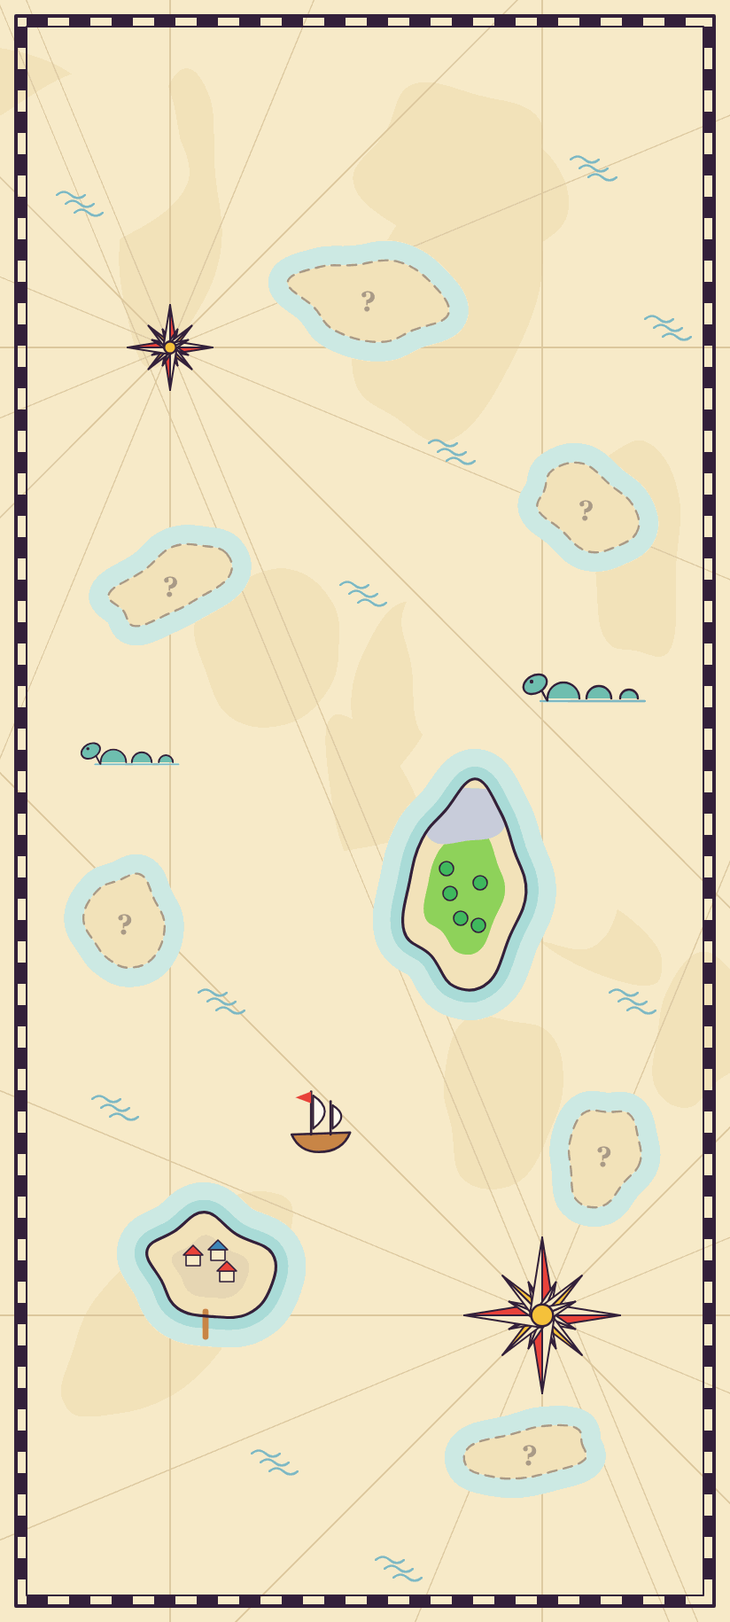
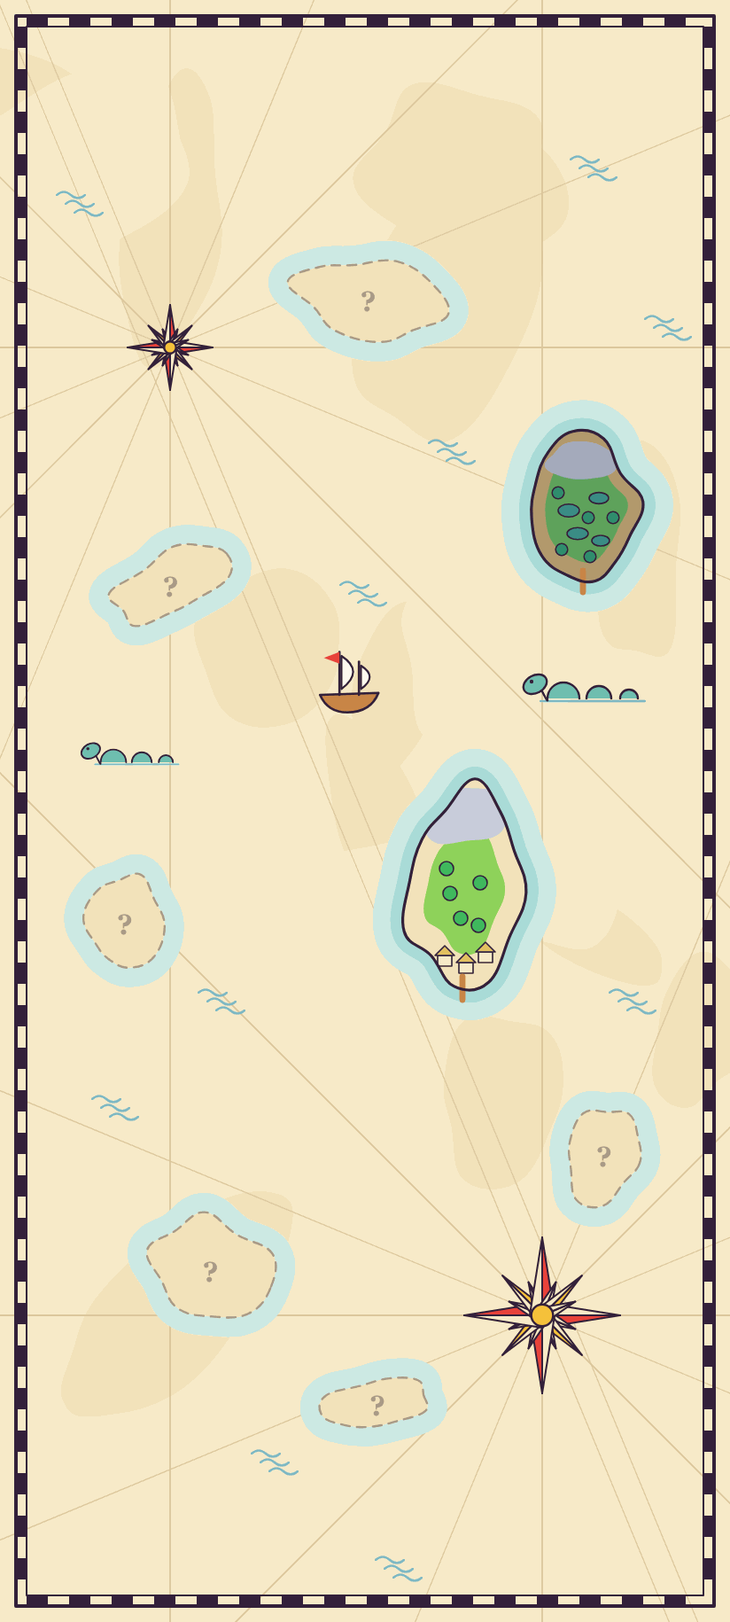
Art Director: Crab Cay's zones by their monsters, the piglet's gallop for its charge, Mire Cay on the chart (Leonard, AD)
On Victor, GD's message that the six monsters and Mire Cay are in the game
(his commit 0024efc):

- out/crab-cay/place.json: zones are named sand-crab, wharf-rat,
  bristle-piglet, palm-monkey and coconut-crab; the boxes are unchanged
  and the gull is gone.
- out/bristle-piglet: the charge gallop redrawn with a longer stride at
  42 ms a frame: drawn for 320 units a second, where his rule runs it at
  330.
- out/chart: Crab Cay with its town, Mire Cay painted where the first
  unknown island was, a way between them, pin/swamp; the old harbour is
  an unknown island. chart-places.json names its places crab-cay and
  mire-cay and keeps island-1 as the old name.

diff --git a/Art Director/tools/chart.js b/Art Director/tools/chart.js
@@ -12,8 +12,12 @@ const smooth = (pts, k = 0.6) => g => { const n = pts.length; g.beginPath(); g.m
 const blobPts = (x, y, rx, ry, n, k, r, rot = 0) => Array.from({ length: n }, (_, i) => { const t = i / n * Math.PI * 2, w = 1 + (r() - 0.5) * k, px = Math.cos(t) * rx * w, py = Math.sin(t) * ry * w; return [x + px * Math.cos(rot) - py * Math.sin(rot), y + px * Math.sin(rot) + py * Math.cos(rot)]; });
 const stroke = (g, path, col, lw, dash) => { path(g); g.strokeStyle = col; g.lineWidth = lw; g.lineJoin = 'round'; g.lineCap = 'round'; g.setLineDash(dash || []); g.stroke(); g.setLineDash([]); };
 const fill = (g, path, col) => { path(g); g.fillStyle = col; g.fill(); };
-const PLACES = { harbour: { x: 118, y: 716, name: 'the harbour' }, 'island-1': { x: 262, y: 500, name: 'the first island' } };
-const UNKNOWN = [[330, 286, 30, 20, 0.4], [96, 330, 34, 18, -0.5], [206, 168, 40, 22, 0.2], [342, 650, 22, 28, 0.3], [70, 520, 20, 26, 0.1], [300, 820, 34, 16, -0.2]];
+// Two places since 2026-11-20: Crab Cay with its town (the old harbour is no place any more: its island is one of the unknown
+// ones now), and Mire Cay, the swamp, painted where the first unknown island was. `foot` is how far below its point a place's
+// painting ends, so the game can write its name under it.
+const PLACES = { 'crab-cay': { x: 262, y: 500, name: 'Crab Cay', pin: 'pin/island', foot: 66 }, 'mire-cay': { x: 330, y: 286, name: 'Mire Cay', pin: 'pin/swamp', foot: 52 } };
+const OLD = [330, 286, 30, 20, 0.4], HARBOUR = [118, 716, 34, 28, 0.3];
+const UNKNOWN = [[96, 330, 34, 18, -0.5], [206, 168, 40, 22, 0.2], [342, 650, 22, 28, 0.3], [70, 520, 20, 26, 0.1], [214, 792, 30, 15, -0.2], HARBOUR];      // the fifth stood under the Sail button: moved up and left
 
 function rose(g, x, y, r) {
   g.save(); g.translate(x, y);
@@ -36,19 +40,28 @@ function chart() {
   for (const [cx, cy] of [[306, 742], [96, 196]]) for (let i = 0; i < 16; i++) { const a = i * Math.PI / 8; stroke(g, gg => { gg.beginPath(); gg.moveTo(cx, cy); gg.lineTo(cx + Math.cos(a) * 1100, cy + Math.sin(a) * 1100); }, LINE, i % 2 ? 0.6 : 0.9); }
   // shallows round every island, then the islands
   const isles = [];
-  isles.push({ id: 'harbour', pts: blobPts(118, 716, 34, 28, 10, 0.3, r, 0.3) }); isles.push({ id: 'island-1', pts: blobPts(262, 500, 34, 54, 12, 0.28, r, 0.1) });
-  for (const [x, y, rx, ry, rot] of UNKNOWN) isles.push({ pts: blobPts(x, y, rx, ry, 10, 0.4, r, rot) });
+  // drawn in the order they always were, so every island keeps the shape it had: the old harbour's island first (unknown now), Crab Cay, then the rest
+  isles.push({ pts: blobPts(118, 716, 34, 28, 10, 0.3, r, 0.3) }); isles.push({ id: 'crab-cay', pts: blobPts(262, 500, 34, 54, 12, 0.28, r, 0.1) });
+  blobPts(...OLD.slice(0, 4), 10, 0.4, r, OLD[4]); isles.push({ id: 'mire-cay', pts: blobPts(330, 288, 30, 40, 12, 0.26, P.rng(77), -0.15) });
+  for (const [x, y, rx, ry, rot] of UNKNOWN.slice(0, 5)) isles.push({ pts: blobPts(x, y, rx, ry, 10, 0.4, r, rot) });
   for (const I of isles) { stroke(g, smooth(I.pts), SEA, I.id ? 34 : 22); fill(g, smooth(I.pts), SEA); }
   for (const I of isles.filter(I => I.id)) stroke(g, smooth(I.pts), SEA2, 14);
   for (const I of isles) {
     if (!I.id) { fill(g, smooth(I.pts), '#f3e3bb'); stroke(g, smooth(I.pts), '#a99a86', 1.2, [5, 4]); const cx = I.pts.reduce((n, p) => n + p[0], 0) / I.pts.length, cy = I.pts.reduce((n, p) => n + p[1], 0) / I.pts.length; P.label(g, '?', cx, cy + 1, 16, '#a99a86', { align: 'center', font: 'Georgia' }); continue; }
-    fill(g, smooth(I.pts), SAND); const c = PLACES[I.id], inner = k => smooth(I.pts.map(([x, y]) => [c.x + (x - c.x) * k, c.y + (y - c.y) * k]));
-    if (I.id === 'island-1') { fill(g, inner(0.66), GRASS); g.save(); smooth(I.pts)(g); g.clip(); fill(g, smooth(blobPts(c.x - 2, c.y - 40, 26, 17, 9, 0.3, r)), ROCK); g.restore(); for (const [dx, dy] of [[-8, 4], [9, -2], [-2, 18], [8, 22], [-10, -10]]) { fill(g, gg => { gg.beginPath(); gg.arc(c.x + dx, c.y + dy, 4, 0, 7); }, '#3fb95e'); stroke(g, gg => { gg.beginPath(); gg.arc(c.x + dx, c.y + dy, 4, 0, 7); }, INK, 0.8); } }
-    else { fill(g, inner(0.6), '#e3d6bd'); for (const [dx, dy, col] of [[-9, -6, RED], [5, -9, '#3d86b8'], [10, 3, RED]]) { g.fillStyle = '#f7ead0'; g.fillRect(c.x + dx - 4, c.y + dy - 2, 8, 6); g.strokeStyle = INK; g.lineWidth = 0.8; g.strokeRect(c.x + dx - 4, c.y + dy - 2, 8, 6); fill(g, gg => { gg.beginPath(); gg.moveTo(c.x + dx - 5.5, c.y + dy - 2); gg.lineTo(c.x + dx, c.y + dy - 7.5); gg.lineTo(c.x + dx + 5.5, c.y + dy - 2); gg.closePath(); }, col); stroke(g, gg => { gg.beginPath(); gg.moveTo(c.x + dx - 5.5, c.y + dy - 2); gg.lineTo(c.x + dx, c.y + dy - 7.5); gg.lineTo(c.x + dx + 5.5, c.y + dy - 2); gg.closePath(); }, INK, 0.8); } stroke(g, gg => { gg.beginPath(); gg.moveTo(c.x - 2, c.y + 24); gg.lineTo(c.x - 2, c.y + 38); }, '#c98646', 3.4); }
+    fill(g, smooth(I.pts), I.id === 'mire-cay' ? '#b39a6c' : SAND); const c = PLACES[I.id], inner = k => smooth(I.pts.map(([x, y]) => [c.x + (x - c.x) * k, c.y + (y - c.y) * k]));
+    const dot = (dx, dy, rad, col, lw = 0.8) => { fill(g, gg => { gg.beginPath(); gg.arc(c.x + dx, c.y + dy, rad, 0, 7); }, col); stroke(g, gg => { gg.beginPath(); gg.arc(c.x + dx, c.y + dy, rad, 0, 7); }, INK, lw); };
+    const hut = (dx, dy, col) => { g.fillStyle = '#f7ead0'; g.fillRect(c.x + dx - 4, c.y + dy - 2, 8, 6); g.strokeStyle = INK; g.lineWidth = 0.8; g.strokeRect(c.x + dx - 4, c.y + dy - 2, 8, 6); const roof = gg => { gg.beginPath(); gg.moveTo(c.x + dx - 5.5, c.y + dy - 2); gg.lineTo(c.x + dx, c.y + dy - 7.5); gg.lineTo(c.x + dx + 5.5, c.y + dy - 2); gg.closePath(); }; fill(g, roof, col); stroke(g, roof, INK, 0.8); };
+    if (I.id === 'mire-cay') {      // the swamp: mud, moss, grey stones in the north, pools, a few mangroves, a jetty in the south
+      fill(g, inner(0.74), '#5fa35c'); g.save(); smooth(I.pts)(g); g.clip(); fill(g, smooth(blobPts(c.x - 1, c.y - 27, 20, 11, 9, 0.3, P.rng(5))), '#a4abbc'); g.restore();
+      for (const [dx, dy, rx, ry] of [[-9, 2, 6, 3.6], [8, -5, 5.5, 3.2], [-4, 15, 6, 3.4], [9, 19, 5, 3]]) { const pool = gg => { gg.beginPath(); gg.ellipse(c.x + dx, c.y + dy, rx, ry, 0, 0, 7); }; fill(g, pool, '#3a8d86'); stroke(g, pool, INK, 0.8); }
+      for (const [dx, dy] of [[-15, -8], [2, 6], [16, 6], [-13, 24], [3, 28]]) dot(dx, dy, 3.4, '#2f8f6e');
+      stroke(g, gg => { gg.beginPath(); gg.moveTo(c.x - 1, c.y + 36); gg.lineTo(c.x - 1, c.y + 48); }, '#c98646', 3.4); }
+    else if (I.id === 'crab-cay') { fill(g, inner(0.66), GRASS); g.save(); smooth(I.pts)(g); g.clip(); fill(g, smooth(blobPts(c.x - 2, c.y - 40, 26, 17, 9, 0.3, r)), ROCK); g.restore(); for (const [dx, dy] of [[-8, 4], [9, -2], [-2, 18], [8, 22], [-10, -10]]) dot(dx, dy, 4, '#3fb95e');
+      hut(-11, 41, '#e2c060'); hut(1, 45, '#e2c060'); hut(12, 39, '#e2c060'); stroke(g, gg => { gg.beginPath(); gg.moveTo(c.x - 1, c.y + 51); gg.lineTo(c.x - 1, c.y + 64); }, '#c98646', 3.4); }      // the town on stilts at its south end, and its dock
     stroke(g, smooth(I.pts), INK, 1.6);
   }
   // what a chart is dressed with: two roses, a ship, a serpent, small waves
-  rose(g, 306, 742, 44); rose(g, 96, 196, 24); ship(g, 180, 640, 1.1); serpent(g, 318, 394, 1); serpent(g, 64, 430, 0.8);
+  rose(g, 306, 742, 44); rose(g, 96, 196, 24); ship(g, 196, 392, 1.1); serpent(g, 318, 394, 1); serpent(g, 64, 430, 0.8);
   for (const [x, y] of [[200, 330], [60, 620], [352, 560], [150, 820], [250, 250], [372, 180], [40, 110], [220, 880], [120, 560], [330, 90]]) waves(g, x, y);
   // the border: a double line with a band of marks between, like the scale round an old chart
   g.strokeStyle = INK; g.lineWidth = 2; g.strokeRect(9, 9, W - 18, H - 18); g.lineWidth = 1; g.strokeRect(15, 15, W - 30, H - 30);
@@ -63,13 +76,16 @@ function build() {
   // the pins: their point is their origin
   pin('pin/harbour', 40, 52, (g) => { drop(g, 20, 18, 15, RED); g.fillStyle = INK; g.fillRect(14, 16, 12, 8); g.beginPath(); g.moveTo(12, 16.5); g.lineTo(20, 9); g.lineTo(28, 16.5); g.closePath(); g.fill(); return [20, 51]; });
   pin('pin/island', 40, 52, (g) => { drop(g, 20, 18, 15, '#4cbf68'); g.strokeStyle = INK; g.lineWidth = 2; g.beginPath(); g.moveTo(20, 26); g.quadraticCurveTo(19, 19, 21, 14); g.stroke(); for (const a of [-2.6, -1.9, -1.2, -0.5]) { g.beginPath(); g.moveTo(21, 14); g.quadraticCurveTo(21 + Math.cos(a) * 5, 14 + Math.sin(a) * 6, 21 + Math.cos(a) * 9, 14 + Math.sin(a) * 4 + 3); g.stroke(); } return [20, 51]; });
+  pin('pin/swamp', 40, 52, (g) => { drop(g, 20, 18, 15, '#3a9d8c'); g.strokeStyle = INK; g.lineWidth = 1.6; for (const [x, top] of [[16, 11], [21, 8], [25.5, 13]]) { g.beginPath(); g.moveTo(x, 27); g.lineTo(x, top + 5); g.stroke(); g.beginPath(); g.ellipse(x, top + 3, 2.1, 4.2, 0, 0, 7); g.fillStyle = '#7a4a2a'; g.fill(); g.lineWidth = 1; g.stroke(); g.lineWidth = 1.6; } return [20, 51]; }, { note: 'for the swamp island: three cattails' });
   pin('pin/boss', 40, 52, (g) => { drop(g, 20, 18, 15, '#b666f2'); g.fillStyle = INK; g.beginPath(); g.arc(20, 17, 6, 0, 7); g.fill(); g.fillRect(16.5, 21, 7, 4); g.fillStyle = '#fffaec'; g.beginPath(); g.arc(17.6, 16.5, 1.7, 0, 7); g.arc(22.4, 16.5, 1.7, 0, 7); g.fill(); return [20, 51]; }, { note: 'for a place with a boss up; not used in chapter 1' });
   pin('pin/locked', 40, 52, (g) => { drop(g, 20, 18, 15, '#a99a86'); P.label(g, '?', 20, 18.5, 16, INK, { align: 'center', font: 'Georgia' }); return [20, 51]; });
   pin('mark/here', 44, 30, (g) => { g.beginPath(); g.ellipse(22, 15, 19, 11, 0, 0, 7); g.strokeStyle = RED; g.lineWidth = 2.6; g.stroke(); g.beginPath(); g.ellipse(22, 15, 13, 7, 0, 0, 7); g.strokeStyle = '#fffaec'; g.lineWidth = 1.4; g.stroke(); }, { soft: true, note: 'round the place he is at; let it breathe' });
   pin('mark/route', 10, 10, (g) => { g.beginPath(); g.arc(5, 5, 3, 0, 7); g.fillStyle = RED; g.fill(); g.strokeStyle = INK; g.lineWidth = 1; g.stroke(); }, { note: 'a dot of the dotted line between two places' });
   fs.writeFileSync(path.join(OUT, 'meta.json'), JSON.stringify({ px: S, items }, null, 1));
-  const route = []; for (let i = 0; i <= 9; i++) { const t = i / 9, a = PLACES.harbour, b = PLACES['island-1'], bend = Math.sin(t * Math.PI) * 26; route.push([Math.round(a.x + (b.x - a.x) * t - bend * 0.6), Math.round(a.y + (b.y - a.y) * t - bend * 0.3)]); }
-  fs.writeFileSync(path.join(P.ROOT, 'work/chart/chart-places.json'), JSON.stringify({ size: { w: W, h: H }, places: PLACES, unknown: UNKNOWN.map(u => ({ x: u[0], y: u[1] })), route, title: { x: W / 2, y: 46 }, sail: { x: W / 2, y: H - 64 } }, null, 1));
+  // the way between the two places: from Crab Cay's dock round its west side and up to Mire Cay's jetty, as dots
+  const way = [[261, 566], [222, 560], [204, 500], [214, 430], [262, 376], [318, 346], [329, 336]], route = [];
+  for (let i = 0; i <= 12; i++) { const t = i / 12 * (way.length - 1), k = Math.min(way.length - 2, Math.floor(t)), f = t - k; route.push([Math.round(way[k][0] + (way[k + 1][0] - way[k][0]) * f), Math.round(way[k][1] + (way[k + 1][1] - way[k][1]) * f)]); }
+  fs.writeFileSync(path.join(P.ROOT, 'work/chart/chart-places.json'), JSON.stringify({ size: { w: W, h: H }, places: Object.assign({}, PLACES, { 'island-1': Object.assign({ note: 'the old name of crab-cay: the same place' }, PLACES['crab-cay']) }), unknown: UNKNOWN.map(u => ({ x: u[0], y: u[1] })), route, title: { x: W / 2, y: 46 }, sail: { x: W / 2, y: H - 64 } }, null, 1));
   console.log('drew the chart and', items.length - 1, 'pins');
 }
 if (require.main === module) build();

diff --git a/Art Director/tools/isle.js b/Art Director/tools/isle.js
@@ -56,7 +56,8 @@ const ISLES = {
         props: [['palm-b', 1010, 3470], ['palm-a', 1790, 3480], ['bush-b', 1240, 3560], ['lamp', 1346, 3600], ['lamp', 1454, 3600], ['palm-c', 930, 3700], ['bush-b', 1830, 3720], ['bunting', 1400, 3712], ['sign', 1330, 3745], ['cabin-c', 1250, 3830], ['cabin-a', 1580, 3822], ['barrel', 1470, 3850], ['crate', 1140, 3906], ['barrel', 1160, 3926],
           ['post', 880, 3899], ['post', 1920, 3899], ['stall', 1280, 3945], ['cabin-b', 1612, 3982], ['rack', 1470, 4014], ['tower-thatch', 1146, 4016], ...[1100, 1220, 1340, 1460, 1580, 1700].map(x => ['post', x, 4040]), ['boat', 1010, 4010], ['boat', 1800, 4020]],
         people: [['shopkeeper', 1346, 3949, 's', 'beside his stall, where he can be seen: the shop'], ['master', 1470, 3900, 'sw', 'the harbour master: tasks'], ['fisher', 1452, 3976, 's', 'behind her fish rack: tasks'], ['sailor', 1400, 3775, 'se', 'at the way north: tasks']] }) },      // the stall 87 units from the deck's foot, so a thumb has room before it; nobody on the spot where he steps ashore
-    zones: { 'sand-crab': [[290, 3150, 640, 620, 1], [1890, 3150, 620, 600, 1], [2090, 1840, 470, 1240, 2]], 'reef-gull': [[480, 2420, 1500, 580, 3], [470, 1700, 1540, 640, 4]], 'coconut-crab': [[380, 560, 2040, 920, 5]] },
+    // who lives where (Victor, GD, 2026-11-20, after Robin's "I think the birds are weird starting mobs" and "Build all of them"): the gull is gone
+    zones: { 'sand-crab': [[290, 3150, 640, 620, 1], [1890, 3150, 620, 600, 1]], 'wharf-rat': [[2090, 1840, 470, 1240, 2]], 'bristle-piglet': [[480, 2420, 1500, 580, 3]], 'palm-monkey': [[470, 1700, 1540, 640, 4]], 'coconut-crab': [[380, 560, 2040, 920, 5]] },
     grounds: [{ id: 'beach', name: 'The beach', levels: '1 to 2', from: 'land' }, { id: 'grove', name: 'The grove', levels: '3 to 4', from: 'grass' }, { id: 'cove', name: 'The cove', levels: '5', from: 'rock' }] },
 };
 // a town moved onto an island: the layout of out/<from>/place.json, shifted so its dock lies on the island's dock
@@ -175,7 +176,7 @@ async function make(name) {
   if (town && folkDir) { const folk = await D.atlas(folkDir, 'folk'); for (const q of town.people) { g.save(); g.globalAlpha = 0.24; g.fillStyle = '#5b4a82'; g.beginPath(); g.ellipse(q.x + 3, q.y + 1, 13, 5, 0, 0, 7); g.fill(); g.restore(); D.figure(g, folk, { action: q.who, facing: q.facing, i: 0 }, q.x, q.y, 0.5); } }
   P.save(pv, path.join(out, 'look.jpg'));
   const tag = (t, x, y, s = 64, col = '#ffffff') => P.label(g, t, x, y, s, col, { align: 'center', stroke: '#33203a', strokeW: s / 5, font: 'Trebuchet MS' });
-  g.lineWidth = 8; g.setLineDash([36, 24]); for (const [kind, list] of Object.entries(L.zones)) for (const z of list) { g.strokeStyle = { 'sand-crab': '#f4603c', 'reef-gull': '#ffffff', 'coconut-crab': '#8a5a34' }[kind]; g.strokeRect(z[0], z[1], z[2], z[3]); tag(`${kind}, level ${z[4]}`, z[0] + z[2] / 2, z[1] + 60, 56); }
+  g.lineWidth = 8; g.setLineDash([36, 24]); for (const [kind, list] of Object.entries(L.zones)) for (const z of list) { g.strokeStyle = { 'sand-crab': '#f4603c', 'wharf-rat': '#8e9aa8', 'bristle-piglet': '#ff9a9a', 'palm-monkey': '#a8683a', 'coconut-crab': '#8a5a34' }[kind] || '#ffffff'; g.strokeRect(z[0], z[1], z[2], z[3]); tag(`${kind}, level ${z[4]}`, z[0] + z[2] / 2, z[1] + 60, 56); }
   g.setLineDash([]); g.strokeStyle = '#33203a'; g.lineWidth = 8; for (const [n, p] of [['the chest', L.chest]]) { g.fillStyle = '#ffd640'; g.beginPath(); g.arc(p[0], p[1], 30, 0, 7); g.fill(); g.stroke(); tag(n, p[0], p[1] + 80, 60); }
   for (const q of grounds) tag(q.name, q.id === 'beach' ? 560 : q.box[0] + q.box[2] / 2, q.id === 'beach' ? 3560 : q.box[1] + q.box[3] / 2, 110);
   if (J.home) { g.strokeStyle = '#ffd640'; g.lineWidth = 10; g.setLineDash([30, 18]); poly(curve(J.home.outline))(g); g.stroke(); g.setLineDash([]); tag('The town (home)', J.home.box[0] + J.home.box[2] / 2, J.home.box[1] + 90, 84, '#ffd640'); g.strokeStyle = '#33203a'; g.lineWidth = 8; g.fillStyle = '#ffd640'; g.beginPath(); g.arc(J.home.wake[0], J.home.wake[1], 26, 0, 7); g.fill(); g.stroke(); tag('he wakes', J.home.wake[0] + 150, J.home.wake[1] - 40, 52); }

diff --git a/Art Director/tools/chart-look.js b/Art Director/tools/chart-look.js
@@ -1,0 +1,18 @@
+// chart-look.js: the sea chart as the game shows it (Leonard, AD, 2026-11-20): the delivered chart, a pin on each place (the
+// one its place names), the ring on the place he is at, the dotted way, the names with their levels, the title plate, the
+// close button and the Sail button, from out/chart and out/glass as delivered.
+//   node tools/chart-look.js [here: crab-cay|mire-cay]        writes out/chart/look.jpg
+const P = require('./paint.js'); const D = require('./dress.js'); const fs = require('fs'); const path = require('path');
+(async () => {
+  const R = P.ROOT, here = process.argv[2] || 'crab-cay', ch = await P.loadImage(path.join(R, 'out/chart/chart.png')), pins = await D.atlas(path.join(R, 'out/chart'), 'pins'), glass = await D.atlas(path.join(R, 'out/glass'), 'glass'), J = JSON.parse(fs.readFileSync(path.join(R, 'out/chart/chart-places.json'), 'utf8'));
+  const LV = { 'crab-cay': '1-5', 'mire-cay': '6-8' }, cv = P.createCanvas(824, 1830), g = cv.getContext('2d'); g.drawImage(ch, 0, 0); g.scale(2, 2);
+  const pic = (A, key, x, y) => { g.save(); g.translate(x, y); g.scale(0.5, 0.5); D.pic(g, A, key); g.restore(); };
+  const words = (t, x, y, s = 13, col = '#ffffff') => P.label(g, t, x, y, s, col, { align: 'center', font: 'Trebuchet MS', stroke: '#33203a', strokeW: 4 });
+  const cut = (key, x, y, w) => { const f = glass.j.frames[key].frame, [l, , r] = glass.j.items[key].slice, k = 0.5, h = f.h * k; g.drawImage(glass.im, f.x, f.y, l, f.h, x, y, l * k, h); g.drawImage(glass.im, f.x + l, f.y, f.w - l - r, f.h, x + l * k, y, w - (l + r) * k, h); g.drawImage(glass.im, f.x + f.w - r, f.y, r, f.h, x + w - r * k, y, r * k, h); return h; };
+  for (const p of J.route.slice(1, -1)) pic(pins, 'mark/route', p[0], p[1]);
+  for (const [id, p] of Object.entries(J.places)) { if (p.note) continue; if (id === here) { pic(pins, 'mark/here', p.x, p.y + 2); words('You are here', p.x, p.y - 68, 11, '#ffe9a8'); } pic(pins, p.pin, p.x, p.y - 8); words(`${p.name}  Lv ${LV[id] || ''}`, p.x, p.y + p.foot + 10); }
+  const th = cut('panel/title', J.title.x - 100, J.title.y - 22, 200); P.label(g, 'Sea chart', J.title.x, J.title.y - 1, 18, '#3a2414', { align: 'center', font: 'Trebuchet MS' });
+  pic(glass, 'button/close', 380, 35); const to = Object.keys(J.places).find(id => id !== here && !J.places[id].note);
+  cut('button/context', J.sail.x - 118, J.sail.y - 22, 236); P.label(g, 'Sail to ' + J.places[to].name, J.sail.x, J.sail.y - 2, 17, '#3a2414', { align: 'center', font: 'Trebuchet MS' });
+  P.save(cv, path.join(R, 'out/chart/look.jpg')); console.log('wrote out/chart/look.jpg');
+})();

diff --git a/Art Director/blender/beasts.py b/Art Director/blender/beasts.py
@@ -161,7 +161,7 @@ def piglet(st, p):
         for front in (True, False):
             dy = lf = 0.0
             if p['phase'] is not None: dy, lf = step(p['phase'] + (0 if (s > 0) == front else math.pi), 0.09, 0.06)
-            if p['gallop'] is not None: dy, lf = step(p['gallop'] + (0 if front else 2.4) + (0.3 if s > 0 else 0), 0.16, 0.1)
+            if p['gallop'] is not None: dy, lf = step(p['gallop'] + (0 if front else 2.4) + (0.3 if s > 0 else 0), 0.24, 0.11)
             if p['scrape'] is not None and front and s > 0: dy = -0.1 * p['scrape']; lf = 0.05 * (1 - abs(p['scrape']))
             root = bp(s * 0.11, -0.2, -0.1) if front else bp(s * 0.12, 0.14, -0.1)
             foot = V((s * 0.12, (-0.14 if front else 0.24) + dy, 0.035 + lf)); foot = mix(foot, bp(s * 0.22, -0.28 if front else 0.32, -0.2), sp)
@@ -178,7 +178,7 @@ def piglet_clips():
     hit = [P(pitch=-24, nod=-15, spread=0.6, shut=True, fwd=-0.08, jump=0.05, ear=1.0)]
     die = [P(roll=70, shut=True, spread=0.5, ear=1.0), P(roll=150, shut=True, spread=0.7, ear=1.0), P(roll=180, shut=True, spread=0.9, ear=1.0), P(roll=180, shut=True, spread=1.0, ear=1.0)]
     return {'stand': {'frames': stand, 'delay': 200, 'loop': True}, 'move': {'frames': move, 'delay': 90, 'loop': True, 'stride': round(4 * 0.09 * D.UNIT, 2)},
-            'charge': {'frames': charge, 'delay': 70, 'loop': True, 'stride': round(4 * 0.16 * D.UNIT, 2), 'note': 'a gallop with the head down, for a rule that has it charge; not one of the five every monster has'},
+            'charge': {'frames': charge, 'delay': 42, 'loop': True, 'stride': round(4 * 0.24 * D.UNIT, 2), 'note': 'a gallop with the head down, for the rule that has it charge; drawn for 320 design units a second (Victor, GD runs it at 330): one turn of it, 168 ms, carries the feet 54'},
             'attack1': {'frames': attack, 'delay': [120, 120, 120, 160, 60, 90, 100], 'blow': 4, 'note': 'the wind-up is frames 1 to 4, 520 ms: head down, a front hoof scraping twice; the butt lands on frame 5; it is drawn up to 17 design units ahead of its origin while it butts'},
             'hit1': {'frames': hit, 'delay': 160}, 'die1': {'frames': die, 'delay': [90, 90, 140, 220], 'fade': 2}}
 

diff --git a/Art Director/out/chart/NOTES.md b/Art Director/out/chart/NOTES.md
@@ -1,27 +1,42 @@
 # chart  (Leonard, AD, 2026-11-20)
 
-**What it is:** the sea chart: the world as a sailor's chart, with the harbour and the first island on it and room for
-many more (Robin, 2026-11-20: "a sea chart of islands"; he travels by tapping the chart).
+**What it is:** the sea chart: the world as a sailor's chart, with Crab Cay and Mire Cay on it and room for more
+(Robin, 2026-11-20: "a sea chart of islands"; he travels by tapping the chart).
 
-**What changed and why:** new. A world map is big work and would get three concepts for Robin to pick from. He asked
-not to be asked until chapter 1 is done, so this is one chart, **mine, made to be judged and changed**.
+**What changed and why (the second drop, 2026-11-20):** asked by Victor, GD once the second island was in the game.
+- **The old harbour is no place any more.** The town stands on Crab Cay (Robin, 2026-11-20: "Make the starter island a
+  pirate town"), so Crab Cay now has three small huts and a dock at its south end, and the harbour's island is one of
+  the unknown ones with a question mark.
+- **Mire Cay is painted in** where the first unknown island was: mud, moss, pools, grey stones in the north, a jetty
+  in the south (Robin, 2026-11-20: "a second island to go to... A swamp maybe").
+- **A way between the two** as dots, from Crab Cay's dock round its west side to Mire Cay's jetty.
+- **A pin for the swamp**, `pin/swamp`: three cattails on green.
+- One unknown island stood under the Sail button: it is moved up and left.
+Every other island kept its shape.
+
+The whole chart is still **mine, made to be judged and changed**: a world map is big work and would get three
+concepts; Robin asked not to be asked until chapter 1 was done.
 
 **The numbers:**
-- `chart.png`: the whole screen, 412 by 915 design units at two pixels a unit (824 by 1830, 6 MB decoded). Cream paper,
-  compass lines from two roses, the two known places painted in, six faint islands with a question mark where more
-  will come, a ship, two sea serpents, a border like the scale round an old chart. **No words are painted in.**
-- `pins.png` and `pins.json`: `pin/harbour`, `pin/island`, `pin/boss`, `pin/locked` (40 by 52, the point is the
-  origin), `mark/here` (a ring round the place he is at), `mark/route` (a dot of the dotted line between two places).
-- `chart-places.json`: `places` (`harbour` at 118, 716; `island-1` at 262, 500, in design units on the chart),
-  `unknown` (where the six unknown islands are), `route` (ten dots from the harbour to the island), `title` and `sail`
-  (where a title plate and the "Sail" button sit well).
+- `chart.png`: the whole screen, 412 by 915 design units at two pixels a unit (824 by 1830, 6 MB decoded). **No words
+  are painted in.**
+- `pins.png` and `pins.json` (256 by 256): `pin/island`, `pin/swamp`, `pin/harbour`, `pin/boss`, `pin/locked` (40 by
+  52, the point is the origin), `mark/here` (a ring round the place he is at), `mark/route` (a dot of the way).
+- `chart-places.json`:
+  - `places`: **`crab-cay`** at 262, 500 and **`mire-cay`** at 330, 286, each with `name`, `pin` (which pin it wears)
+    and `foot` (how far below its point its painting ends: write the name about 10 under that). `island-1` is still
+    there as the old name of `crab-cay`, the same place, so nothing breaks before the table is changed; it has a `note`.
+  - `unknown`: six spots, the old harbour's island the last of them. **Mire Cay's spot is no longer in this list.**
+  - `route`: thirteen points from Crab Cay to Mire Cay; draw `mark/route` on all but the first and the last.
+  - `title` and `sail`: where the title plate and the "Sail" button sit well.
 
-**How the game uses it:** copy the folder. Draw `chart.png` to fill the screen. Put a pin on each place a little above
-its point, the ring on the place he is at, the route's dots between the two, and write each name under its place in
-white with the dark line (13 bold). The "Sail" button is `button/context` from `out\glass\`. `look.jpg` shows all that.
+**How the game uses it:** copy the folder. In the table that names my places, `crab-cay` is `crab-cay` and `mire-cay`
+is `mire-cay` now; a place that is not on the chart yet still takes the next `unknown` spot. Put each place's own
+`pin` a little above its point, the ring on the place he is at, the dots of the way, and the name under the painting.
+`look.jpg` shows all that, made by `tools\chart-look.js` from these files.
 
-**Open:** the whole design. A later island needs its own small shape painted over a question mark; I repaint the
-chart then, or we move to a chart of pieces if there are many. The chart does not scroll.
+**Open:** the whole design. Each later island needs its own small shape painted over a question mark; I repaint the
+chart then. With many islands the chart would want to be pieces, or to scroll. `pin/harbour` has no place now.
 
 **Not tested:** not in the game.
 
@@ -29,3 +44,6 @@ chart then, or we move to a chart of pieces if there are many. The chart does no
 (public domain; nothing of them is copied in). Nothing from outside.
 
 **Where to see it:** `look.jpg`.
+
+**Making it again:** `node tools/chart.js`; `node tools/packset.js pins work/chart/render work/chart/out --only pin/,mark/`;
+copy `chart.png`, the pins and `chart-places.json` here; `python tools/shrink.py out/chart`; `node tools/chart-look.js`.

diff --git a/Art Director/docs/log.md b/Art Director/docs/log.md
@@ -44,3 +44,4 @@ when they matter), what was made and where (`out\<name>\`, the tool), what is wa
 - 2026-11-20: The second island as a swamp, first drop: out/mire-cay, 2400 by 3200 units. blender/swamp.py models 17 props (three mangroves on arched roots with hanging moss, a dead tree, reeds, a log, a stump, toadstools red and glowing, ferns, mossy stones, a crooked lantern); tools/mire.js paints the ground (mud, moss, a ruin's floor, nine pools with lily pads and lotus, four plank bridges, mud tracks) and lays 432 props; place.json has one new key, `pools`. tools/isle.js shares its helpers and its walk check knows pools. The size, the levels 6 to 8 and the name are mine until Victor, GD answers. Three screens and the island from above went to Robin; he had said "A swamp maybe", so the look waits for his word. Still to make: a landmark for the old stones and a camp at the landing. Leonard, AD.
 - 2026-11-20: Victor, GD answered: the six live where I suggested (rat 2 on the tide flats, piglet 3 and monkey 4 in the grove; toad, viper, lizard 6 to 8 on the swamp); the swamp's size, grounds and id taken, and its camp gets a stall as the safe part; Crab Cay may be 56 MB with the rat in three facings; the game will load a place's monsters with the place. Robin, in his chat (as Victor, GD passed it on): "I think the chests should open like in zite where its a big pop up screen and the game pauses", so my burst is the light of that screen. Done on it: the rat again in s, e, n (57 frames, 2.2 MB); the swamp's camp (blender/swamp.py: the trader's boat under a patched red awning as `stall`, a reed hut on stilts, a fire; blender/people.py: the trader in a straw hat; tools/mire.js: `home` with `stall`, `people`), delivered in out/mire-cay a second time; the chest built richer at three times the field's pixels for its own screen (blender/chest_big.py, out/chest-burst/chest.png), after I saw the field's small chest blown up soft there. Leonard, AD.
 - 2026-11-20: Victor, GD, on Robin's word for a skills window ("implement a simple UI for skills (take inspiration from zite)..."; read in his transcript): four more skill discs and the Skills button, in out/glass (61 pieces, 1024 by 906, 3.5 MB): Heavy blow orange, Whirlwind violet, Brace steel, Second wind teal, each a colour no other disc has; a burst for the button. Looked at his Skills window in the test copy at two thirds of its size: nothing lies on anything; "On the middle button" fills its button. A long shell heredoc failed twice today: patches of more than a few lines go in a file written with the Write tool. Leonard, AD.
+- 2026-11-20: Victor, GD: the six monsters and Mire Cay are in the game and on the public page (his commit 0024efc), "Everything drew right the first time"; the gull and its folder are out of the game. On his message: Crab Cay's `zones` name the monsters that live there now (sand-crab, wharf-rat, bristle-piglet, palm-monkey, coconut-crab; the boxes unchanged); the piglet's `charge` gallop is redrawn with a longer stride and 42 ms a frame, so it is drawn for 320 units a second where his rule runs it at 330; the chart has Crab Cay with its town, Mire Cay painted in, a way between them, `pin/swamp`, and the old harbour as an unknown island (tools/chart.js, tools/chart-look.js; `chart-places.json` names its places `crab-cay` and `mire-cay`, with `island-1` kept as the old name). Counted Crab Cay again with five monsters, the bigger glass and the big chest: 58.5 MB, 2.5 over his 56; told him. Leonard, AD.

diff --git a/Art Director/docs/inventory.md b/Art Director/docs/inventory.md
@@ -64,7 +64,7 @@ which drop is the game's `docs\state\art.md`). Robin has played it once (2026-11
 | Reef gull | `out\reef-gull\` | level 3, flies, 95 frames, five facings | in the game until its heir lands; design mine. Robin, 2026-11-20: "I think the birds are weird starting mobs." | it goes; see the grove's candidates below |
 | A monster for the grove, six candidates | `concepts\grove-mob\` | one standing still each beside the Warrior in the grove: palm monkey, plum viper, bristle piglet, wharf rat, frill lizard, hop toad; `pick.jpg`; the moving page of the built six, `six-beasts.html` (https://claude.ai/artifact/BGaj7BQj44y6dNL6v91Zv5) | judged by Robin (in my chat, 2026-11-20): "Build all of them" | built: the six rows below |
 | Palm monkey | `out\palm-monkey\` | 95 frames, five facings, 1024 by 1090, 4.3 MB; rears with both arms high, then slaps | delivered 2026-11-20; not in the game; design mine | 0.3 MB over the gull's 4; the motion not judged by Robin |
-| Bristle piglet | `out\bristle-piglet\` | 120 frames, five facings, 1024 by 866, 3.4 MB; head down and a hoof scraping, then a butt; a `charge` gallop as an extra | delivered 2026-11-20; not in the game; design mine | |
+| Bristle piglet | `out\bristle-piglet\` | 120 frames, five facings, 1024 by 872, 3.4 MB; head down and a hoof scraping, then a butt; a `charge` gallop drawn for 320 units a second (Victor, GD's rule runs it at 330) | in the game (Victor, GD, 0024efc) with its charge rule; the new gallop delivered 2026-11-20; design mine | |
 | Wharf rat | `out\wharf-rat\` | 57 frames, three facings (Victor, GD, to keep Crab Cay under 56 MB), 1024 by 552, 2.2 MB; sits up on its haunches, then nips | delivered 2026-11-20; not in the game; design mine | the eye patch is small at the game's size |
 | Frill lizard | `out\frill-lizard\` | 95 frames, five facings, 1024 by 1048, 4.1 MB; rears and throws its frill wide, then snaps | delivered 2026-11-20; not in the game; design mine | blue on the stones' grey is the weakest contrast of the six |
 | Hop toad | `out\hop-toad\` | 110 frames, five facings, 1024 by 924, 3.6 MB; moves in hops; its throat swells, then its tongue lashes 48 units | delivered 2026-11-20; not in the game; design mine | with a steady speed it slides on the two frames it is on the ground |

diff --git a/Art Director/out/crab-cay/NOTES.md b/Art Director/out/crab-cay/NOTES.md
@@ -18,7 +18,10 @@ them. Theres also no contrast to the floor so it all kinda melts together." Of t
 - **The props' atlas is new:** 33 pieces, 2048 by 896. The houses and the well are gone from it; three huts, a
   lookout, a fish rack, a post and a rope of flags are in. Six pieces carry their own shadow.
 - `square` is gone (no cobbles). `home`, `people`, `arrive`, where he wakes and the stall have new places.
-- The rest of the island (the grove, the cove, the flats, the chest, the zones) is as it was.
+- The rest of the island (the grove, the cove, the flats, the chest) is as it was.
+- **`zones` names the monsters that live there now** (2026-11-20, as Victor, GD placed them): `sand-crab` twice at
+  level 1 on the beach, `wharf-rat` at 2 on the tide flats, `bristle-piglet` at 3 and `palm-monkey` at 4 in the grove,
+  `coconut-crab` at 5 in the cove. The boxes are the ones there were; `reef-gull` is gone.
 
 ## The numbers
 
@@ -29,7 +32,11 @@ them. Theres also no contrast to the floor so it all kinda melts together." Of t
 | `folk.png`, `folk.json` | the four people, unchanged | 1024 by 512 | 2 MB | 72 + 21 KB |
 | `place.json` | the layout | | | 29 KB |
 
-- **With everything on it:** the ground 11.8, the props 7, the people 2, the three monsters 16, his body 8, gear 2,
+- **With everything on it, since the five monsters (2026-11-20):** the ground 11.8, the props 7, the people 2, the
+  monsters 21.9 (crab 4, rat 2.2, piglet 3.4, monkey 4.3, coconut crab 8), his body 8, gear 2, the glass 3.5, loot
+  0.3, the chest's light 0.9 and the big chest 1.1: **58.5 MB decoded, 2.5 over the 56 Victor, GD set.** The big
+  chest and the glass's four new discs are what was not counted then. Before the five monsters it was:
+- the ground 11.8, the props 7, the people 2, the three monsters 16, his body 8, gear 2,
   the glass 3.1, loot 0.3: **50.2 MB decoded**, under the 52 you set. The hero's own pictures for his window
   (`out\hero-sheet`) are 1.6 MB on top of that when they are loaded.
 - The atlases are not a power of two tall any more (`--tight`): the ground never was, and it saves 2.6 MB over three

diff --git a/Art Director/out/bristle-piglet/NOTES.md b/Art Director/out/bristle-piglet/NOTES.md
@@ -4,13 +4,13 @@
 
 **Why.** Robin, 2026-11-20, in Victor, GD's chat: "I think the birds are weird starting mobs." Six candidates went to him for the gull's place (`concepts\grove-mob\`); he said, in my chat: "Build all of them, and have the GD make a second island to go to with some of the new mobs." The design is mine; the id is mine to propose.
 
-**The numbers:** 120 frames, five facings (`s`, `se`, `e`, `ne`, `n`). `bristle-piglet.png` 1024 by 866 (not a power of two tall), 129 KB, 3.4 MB decoded.
+**The numbers:** 120 frames, five facings (`s`, `se`, `e`, `ne`, `n`). `bristle-piglet.png` 1024 by 872 (not a power of two tall), 130 KB, 3.4 MB decoded.
 
 | Action | Frames a facing | Delays (ms) | Note |
 | --- | --- | --- | --- |
 | `stand` | 4 | 200, looped |  |
 | `move` | 4 | 90, looped | `stride` 20.16: how far one turn of it carries the feet |
-| `charge` | 4 | 70, looped | a gallop with the head down, for a rule that has it charge; an extra, not one of the five every monster has |
+| `charge` | 4 | 42, looped | a gallop with the head down, for a rule that has it charge; an extra, not one of the five every monster has |
 | `attack1` | 7 | 120, 120, 120, 160, 60, 90, 100 | the wind-up is frames 1 to 4, 520 ms: it tips forward with its head down and scrapes a front hoof twice, then butts upward; the blow lands on frame 5 (`blow` 4) |
 | `hit1` | 1 | 160 | thrown back with its front in the air |
 | `die1` | 4 | 90, 90, 140, 220 | rolls onto its back, legs up; the last two frames fade |
